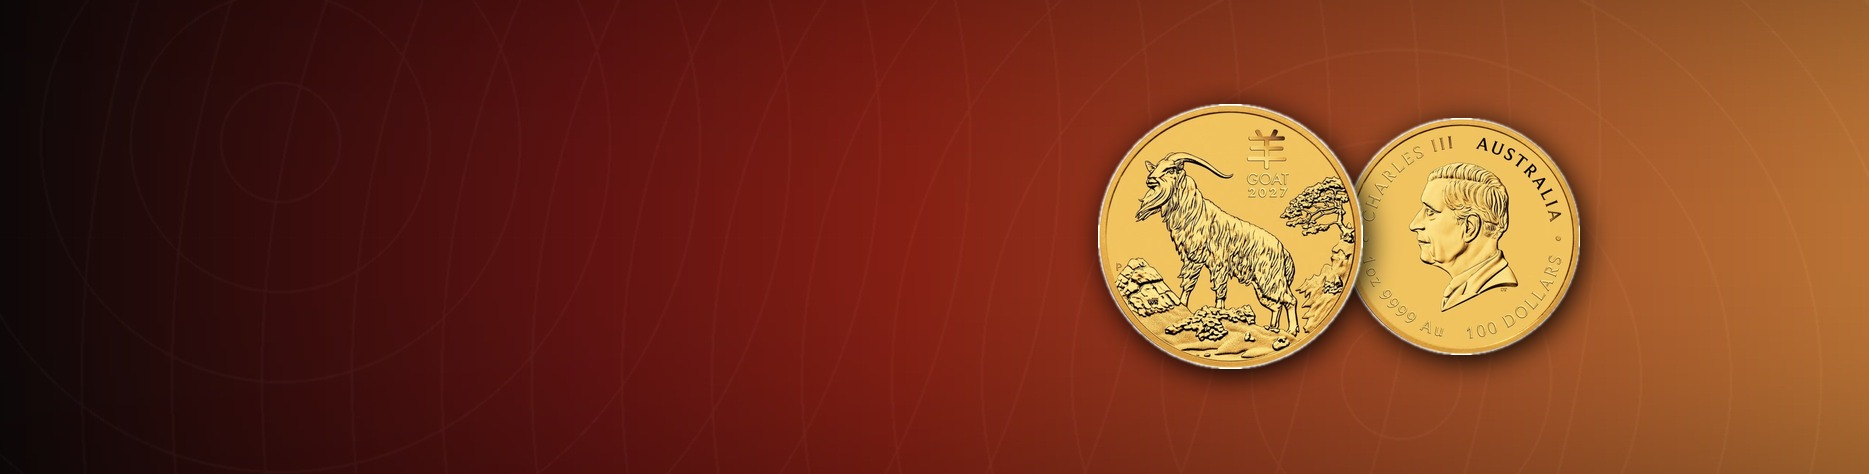
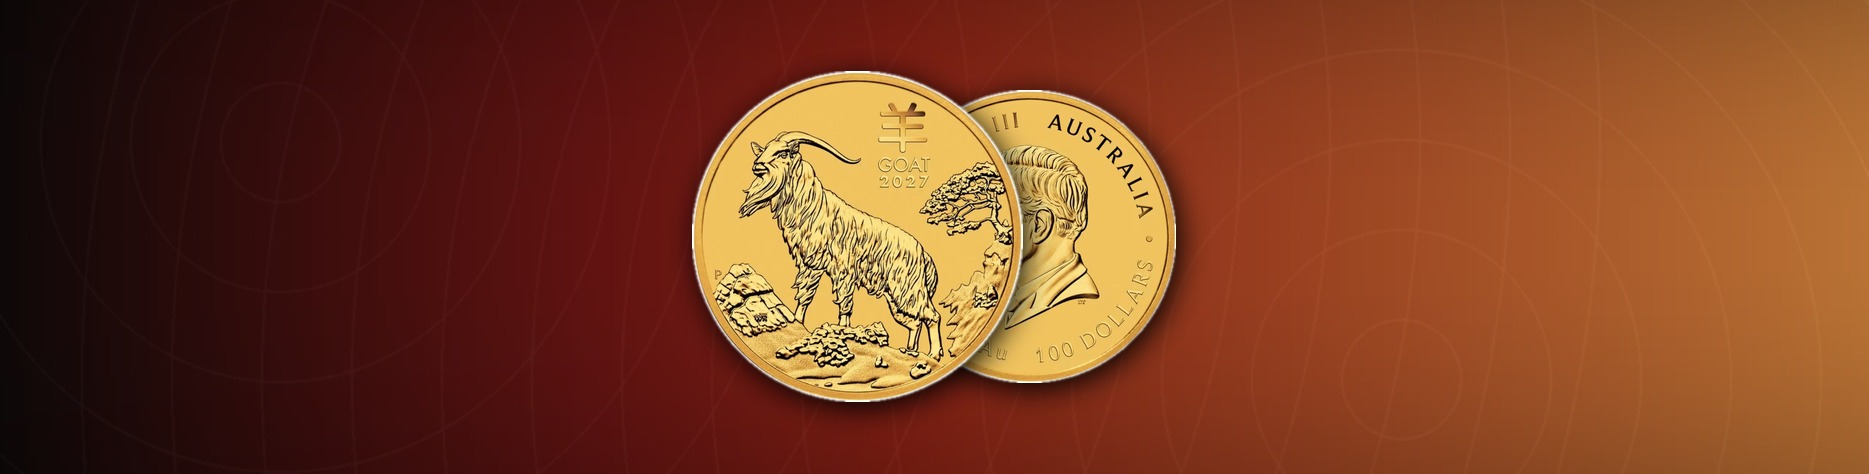
fix: goat-2027 코인 크기/위치를 다른 슬라이드와 일치시킴
- 코인 크기를 다른 4개 슬라이드 실측 비율(~70%H)에 맞춰 재조정
  (front 70%H, back 62%H, 기존 56%/50%에서 확대)
- 코인 배치를 이미지 정중앙 부근으로 이동 -> 태블릿/데스크톱/모바일
  어느 컨테이너 폭에서도 position:center 기준으로 잘리지 않고 보임
  (기존엔 오른쪽으로 치우쳐 있어 좁은 화면에서 프레임 밖으로 밀려남)
- 위 수정으로 goat-2027 전용 모바일 CSS 오버라이드가 불필요해져 삭제,
  다른 슬라이드와 동일하게 기본 center/cover만 사용

Changed region(s): [[0.3414, 0.1181, 0.8689, 0.8861]]

diff --git a/assets/css/style.css b/assets/css/style.css
@@ -327,12 +327,9 @@ img { max-width: 100%; display: block; }
   .cat-coin-img { width: 155px; height: 155px; }
   .hero-slider { height: 400px; }
   .slide-title { font-size: 24px; }
-  /* 2027 양띠 슬라이드: 원본 배경 이미지가 가로로 매우 길어(1869x474)
-     모바일에서 기본 위치(center)로는 코인이 어중간하게 잘려 보여
-     position만 89%로 보정. size는 background-size:150% auto 등으로
-     cover보다 작게 잡으면 이 이미지 비율상 세로 여백(검은 배경 #111 노출)이
-     생기므로 반드시 cover 이상 유지할 것 (2026-09-11 여백 버그 수정) */
-  .slide[data-slug="goat-2027"] { background-size: cover !important; background-position: 89% center !important; }
+  /* 2026-09-11: goat-2027 코인을 이미지 정중앙 부근(다른 슬라이드와 동일한
+     배치 방식)으로 재합성하면서 모바일 전용 오버라이드가 더 이상 필요 없어짐.
+     기본 center/cover만으로 다른 슬라이드와 동일하게 동작함. */
   .products-grid { grid-template-columns: repeat(2, 1fr); gap: 12px; }
   .product-info { padding: 10px; }
   .product-name { font-size: 13px; }
